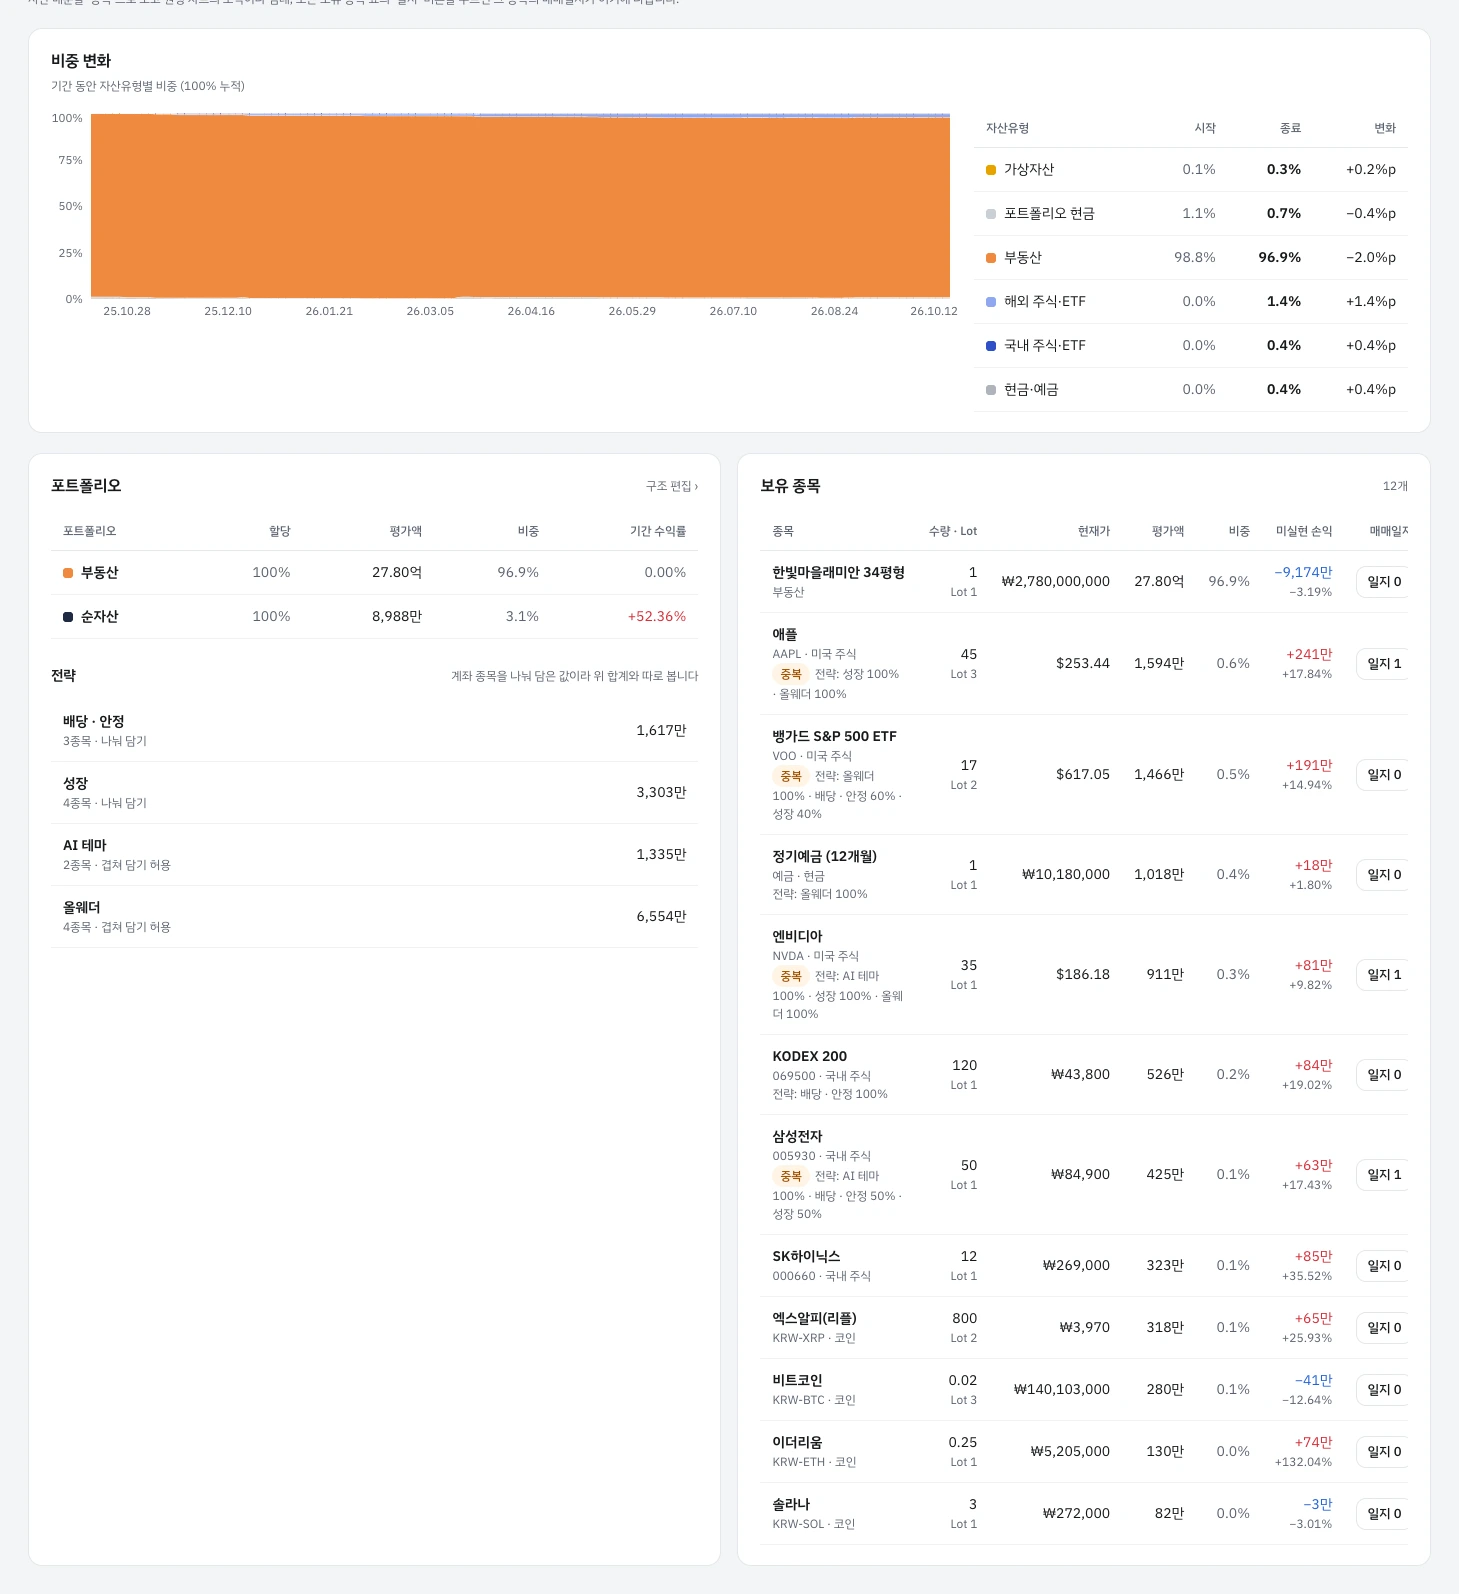
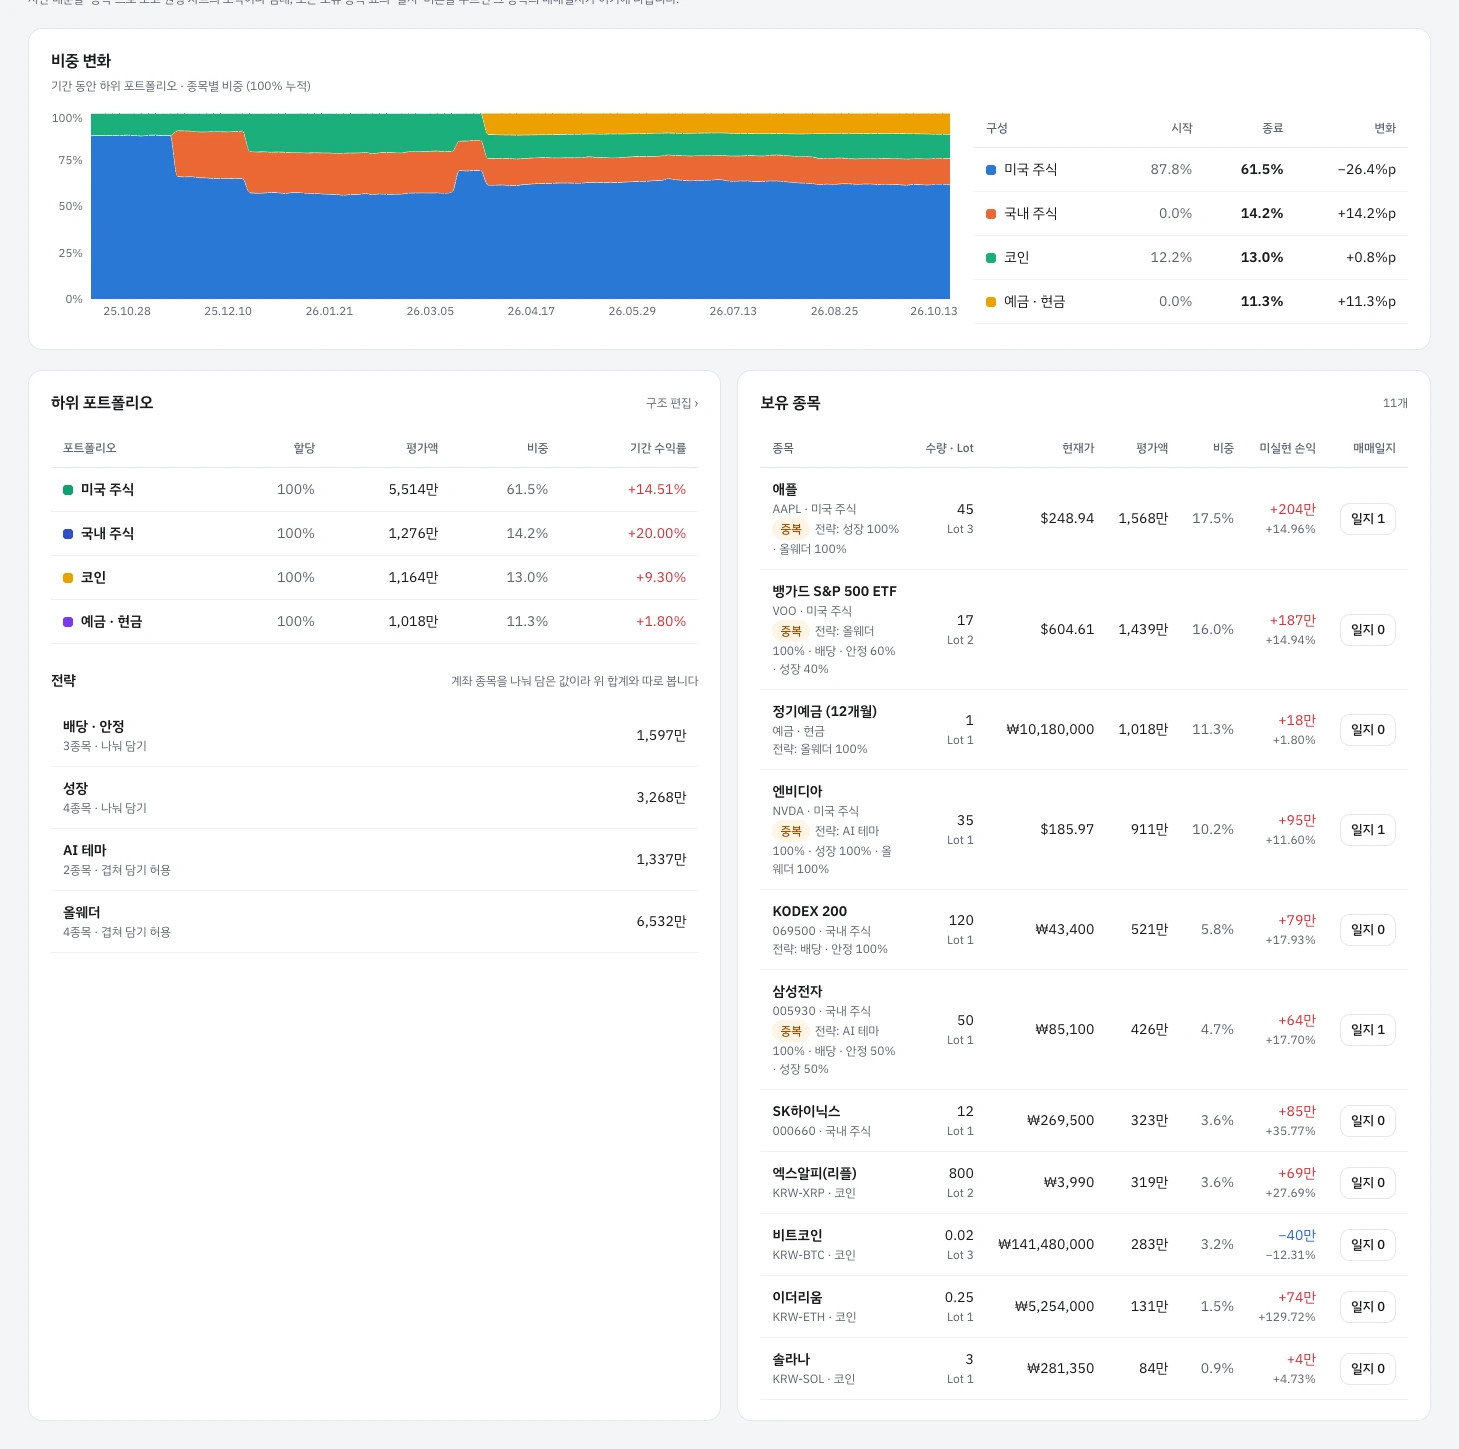
Document 비중 변화 following the allocation basis, and the clearer 실거래가 key message
The dashboard-tables capture now shows the 순자산 portfolio, whose child
portfolios make the bands readable, and waits until each chart has drawn
so the chart no longer comes out blank now and then.

diff --git a/scripts/docs/capture.ts b/scripts/docs/capture.ts
@@ -110,7 +110,7 @@ const SHOTS: Shot[] = [
       card('자산 배분'),
     ],
   },
-  { file: 'dashboard-tables', path: () => '/dashboard', wait: 2200, width: 1680, clip: [{ sel: 'h2', text: '비중 변화', closest: 'section' }, { sel: 'h2', text: '보유 종목', closest: 'section' }] },
+  { file: 'dashboard-tables', path: (ids) => `/dashboard?p=${ids.root}`, wait: 2200, width: 1680, clip: [{ sel: 'h2', text: '비중 변화', closest: 'section' }, { sel: 'h2', text: '보유 종목', closest: 'section' }] },
   { file: 'dashboard-dark', path: () => '/dashboard', wait: 2200, dark: true },
   {
     file: 'portfolios',
@@ -1074,6 +1074,9 @@ async function capture(cdp: Cdp, shot: Shot, ids: Ids, token: string) {
       await s('Emulation.setDeviceMetricsOverride', { width, height: Math.min(full, 6000), deviceScaleFactor: scale, mobile: !!shot.mobile });
       // Charts that just came into view lay out and animate
       await sleep(2000);
+      // A chart sized while it was off screen can stay empty for a while; wait until each has drawn
+      const drawn = "[...document.querySelectorAll('.recharts-responsive-container')].every((c) => c.querySelector('.recharts-surface'))";
+      for (const end = Date.now() + 10_000; !(await run(drawn)) && Date.now() < end; ) await sleep(250);
       await run(PAGE_HELPERS);
     }
     if (shot.marks?.length) await run(`__docs.mark(${JSON.stringify(shot.marks)})`);
